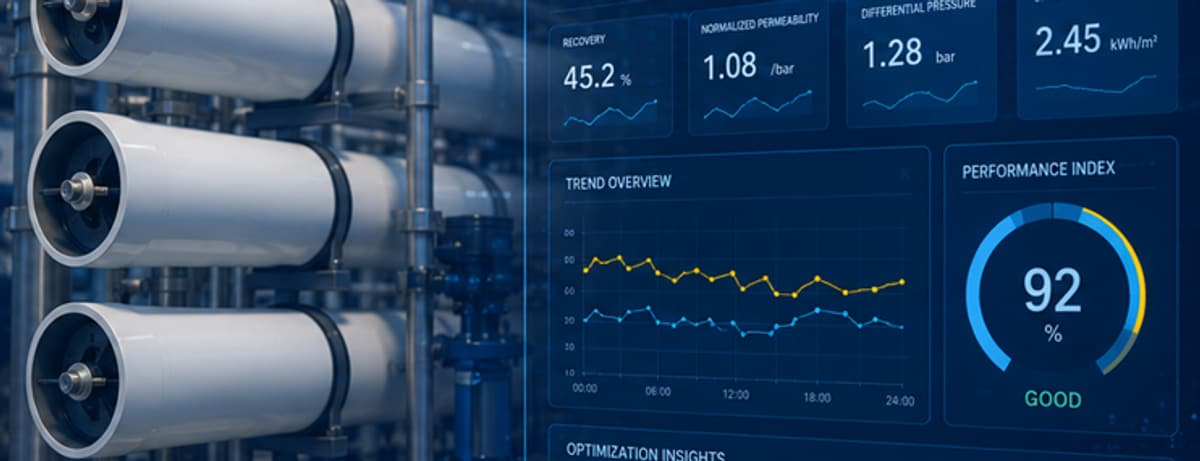
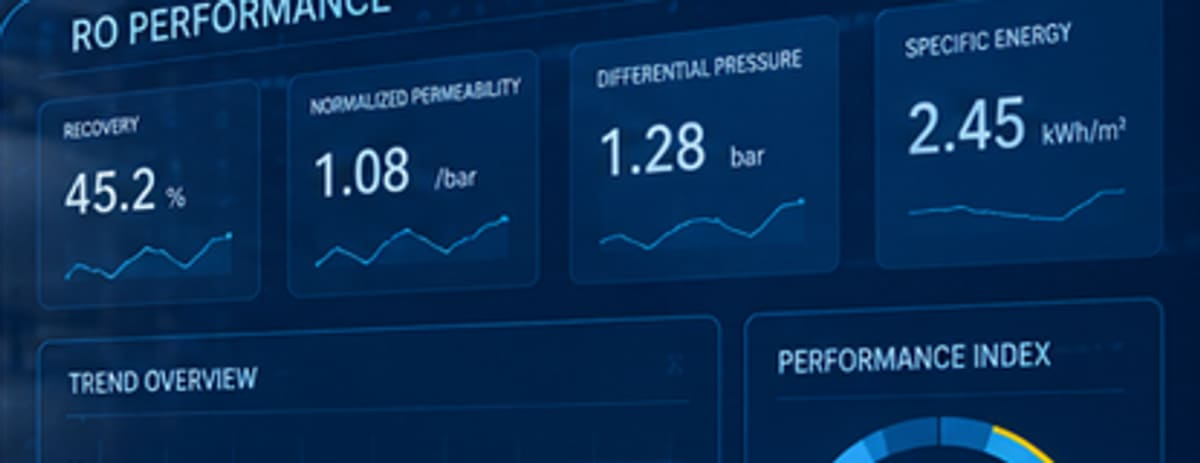
Rename to Analytics Software and use a dashboard-only card image
- "Software & Analytics" becomes "Analytics Software" across the
  pillar, the homepage eyebrow and the metadata
- Card image swapped for the dashboard-only crop, framed so all four
  KPI tiles read without clipping. It is unambiguously software, which
  the membranes-and-plant versions were not
- Title reserve removed from the hub cards: the shorter name fits one
  line, so all three titles now sit level naturally and reserving two
  lines was only adding a gap. The summary reserve stays as insurance

Claude-Session: https://claude.ai/code/session_018XEASipBf7z3G9ADrAdX2h

diff --git a/src/data/pillars.ts b/src/data/pillars.ts
@@ -72,11 +72,11 @@ export const pillars: Pillar[] = [
 export const softwarePillar: Pillar = {
   slug: 'software',
   image: 'software',
-  title: 'Software & Analytics',
+  title: 'Analytics Software',
   strapline: 'Turn operating data into informed decisions',
   summary:
     'Process engineering methods combined with data analysis, so operating teams can track performance, recognise developing problems and plan corrective action.',
-  metaTitle: 'Waterna Software | Water Treatment Performance Platforms',
+  metaTitle: 'Analytics Software for Water Treatment | Waterna',
   metaDescription:
     'Software built by Waterna for water treatment performance — starting with Waterna RO Insight, a decision-support platform for reverse osmosis desalination.',
   intro:
